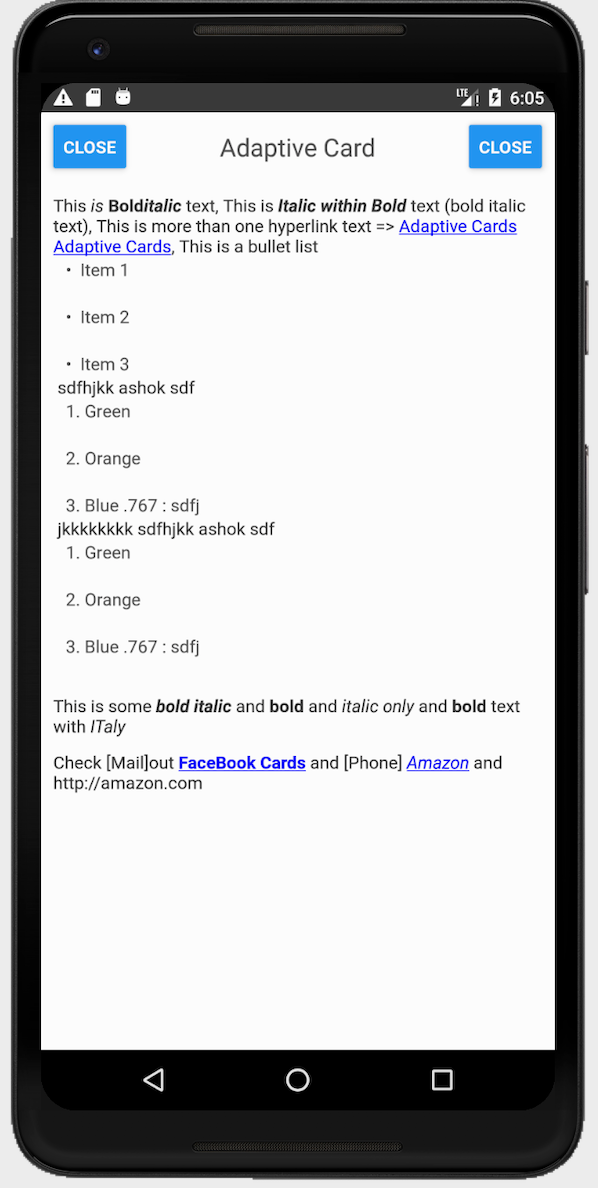
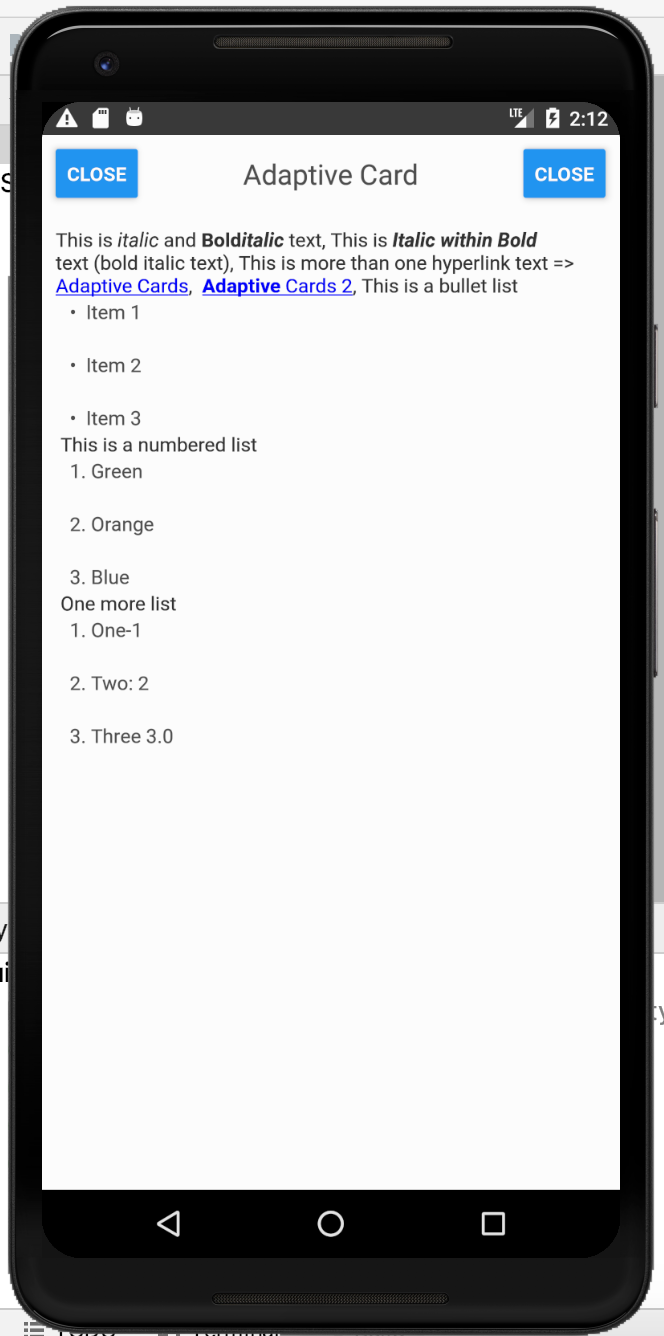
bug fixes on start-end patterns

Changed region(s): [[0.0301, 0.0, 0.9632, 0.9343], [0.0, 0.0311, 1.0, 1.0]]

diff --git a/src/index.js b/src/index.js
@@ -1,5 +1,5 @@
 /**
- * Markdown Formatter.
+ * React Native Markdown Formatter.
  */
 
 import React from 'react';
@@ -80,8 +80,17 @@ export default class MarkdownFormatter extends React.Component {
 		this.numberOfLines = props.numberOfLines;
 		this.text = props.text;
 
-        this.regexArray = this.MD_FORMATTER_CONFIG.concat(props.regexArray);
-        
+		// prefer user configs
+		for(var i = 0; i < this.MD_FORMATTER_CONFIG.length; i++){
+			for(var j =0; j < props.regexArray.length; j++){
+				if(this.MD_FORMATTER_CONFIG[i].type == props.regexArray[j].type){
+					this.MD_FORMATTER_CONFIG[i] = props.regexArray[j];
+					props.regexArray.splice(j, 1);
+					continue;					
+				}
+			}
+		}
+		this.regexArray = this.MD_FORMATTER_CONFIG.concat(props.regexArray);        
 
 		// extracted regex
 		this.patterns = [];
@@ -98,7 +107,7 @@ export default class MarkdownFormatter extends React.Component {
                 pattern = pattern[0];
             }
             if(patternType === "start-end"){ 
-                pattern = pattern[0].replace(SPECIAL_CHAR_REGEX, "\\$&") + '(.*?)' + pattern[1].replace(SPECIAL_CHAR_REGEX, "\\$&");
+                pattern = pattern[0].replace(SPECIAL_CHAR_REGEX, "\\$&") + '(?= )(.*?)' + pattern[1].replace(SPECIAL_CHAR_REGEX, "\\$&");
             }else if(patternType == "symmetric"){
                 pattern = pattern[0].replace(SPECIAL_CHAR_REGEX, "\\$&") + '(.*?)' + pattern[0].replace(SPECIAL_CHAR_REGEX, "\\$&");    
             }else if(patternType == "asymmetric"){                

diff --git a/README.md b/README.md
@@ -17,15 +17,12 @@ Then see Usage for futher details
 
 ```javascript
 import RNMarkdownFormatter from 'react-native-markdown-formatter';
-
-Import RNMarkdownFormatter from 'react-native-markdown-formatter':
-
 ```
 
 In your `Component`'s `render()` method you can then render markdown via JSX e.g.
 
 ```js
-// formatter pattern configs
+// formatter default pattern configs
 MD_FORMATTER_CONFIG = [
 	{
 		type: 'numbered',
@@ -64,15 +61,14 @@ MD_FORMATTER_CONFIG = [
 	},
 ];
 
-// user custom config
+// user custom config to be added/replaced to default configs
 var markdownFormatterRegex = [{
-		type: 'bullet',
+		type: 'bullet', // this will replace the default bullet config with user specified config.
 		styles: [styles.bulletText],
-		pattern: ['\-(.*?[^\\r]+)'],
+		pattern: ['\-(?= )(.*?)\\r'],
 		patternType: 'custom',
 		groups: 1,
 }];
-
 
 //TextBlock styles
 let textBlockComputedStyle = [];
@@ -81,11 +77,11 @@ textBlockComputedStyle.push({
 	color: "red",
 });
 
-let text = "This _is_ **Bold_italic_** text, This is **_Italic within Bold_** text (bold italic text), This is more than one hyperlink text => [Adaptive Cards](http://adaptivecards.io) [Adaptive Cards](http://adaptivecards.io), This is a bullet list - Item 1\r- Item 2\r- Item 3\r sdfhjkk ashok sdf 1. Green\r2. Orange\r3. Blue .767 : sdfj\r jkkkkkkkk sdfhjkk ashok sdf 1. Green\r2. Orange\r3. Blue .767 : sdfj\r";
+let text = "This is _italic_ and **Bold_italic_** text, This is **_Italic within Bold_** text (bold italic text), This is more than one hyperlink text => [Adaptive Cards](http://adaptivecards.io),  [**Adaptive** Cards 2](http://adaptivecards.io), This is a bullet list - Item 1\r- Item 2\r- Item 3\r This is a numbered list 1. Green\r2. Orange\r3. Blue\r One more list 1. One-1\r2. Two: 2\r3. Three 3.0\r ";
 
 ```
 ```jsx
-<MarkdownFormatter 
+<RNMarkdownFormatter 
 	defaultStyles={textBlockComputedStyle} 
 	numberOfLines={numberOfLines} // 1 or 0
 	text={text} 
